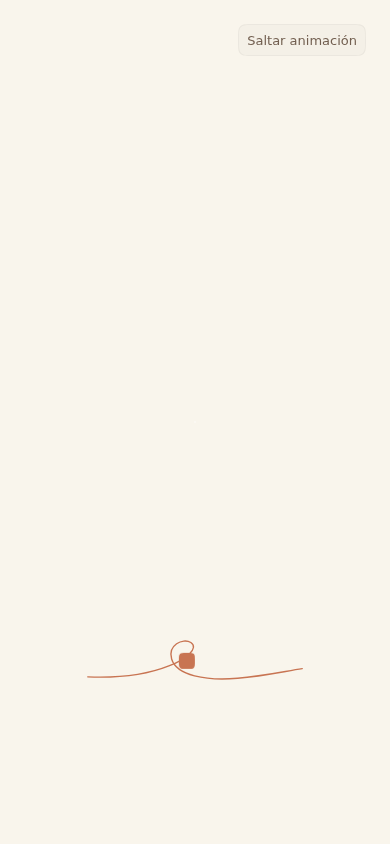
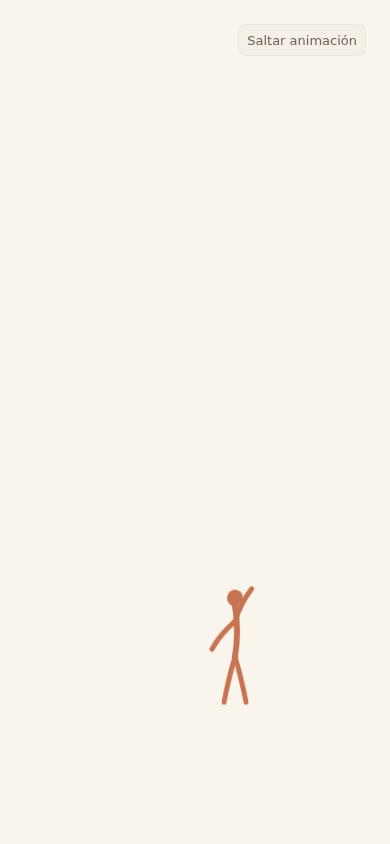
wip(checkpoint): retake CRM-022 screenshots for the figure/transformation choreography (R4 minor)

Changed region(s): [[0.5231, 0.6777, 0.6462, 0.8318], [0.4308, 0.7701, 0.5231, 0.8009]]

diff --git a/docs/aos/evidence/CRM-022/README.md b/docs/aos/evidence/CRM-022/README.md
@@ -3,28 +3,43 @@
 Captured from the `Modules/Onboarding/BettyWelcomeOverlay` Storybook story (`Default`, `DefaultEs`,
 `ReducedMotion`) with Playwright/Chromium (`playwright@1.60.0`, the version pinned in
 `packages/twenty-front/package.json`), against `storybook:serve:dev --configuration=modules` on
-`localhost:6006`. Full-motion frames are at the approximate choreography timestamps described in
-`assets/motion/betty-bienvenida-spec.md`'s scene table (card ~0.9 s, figure ~4.5 s, wordmark +
-greeting ~8.2 s, iris opening ~10.4-10.6 s — slightly earlier on the 390 px viewport, since the
-mask's fixed-radius growth covers a smaller screen sooner on the same clock). Reduced-motion
-frames are at ~0.3 s (card), ~1.0 s (wordmark + greeting), ~2.2 s (dark, pre-reveal).
+`localhost:6006`. The story marks the dashboard behind the layer ready from mount (the happy
+path), so the iris opens on schedule instead of pulsing.
+
+Full-motion frames are at the choreography timestamps from
+`assets/motion/betty-bienvenida-spec.md`'s scene table, timed from when the Skip button first
+renders (not from navigation start, to absorb cold-compile jitter): card ~0.9 s, figure ~5.6 s
+(walking + the wave), transformation ~6.7 s (strands mid-trace, into the wordmark), greeting
+~8.9 s, iris opening ~10.6-10.7 s on the 1440 px viewport and ~10.6 s on the 390 px one — the
+mask's fixed-radius growth covers the smaller screen sooner on the same clock, so its frame is a
+little earlier. Reduced-motion frames are at ~0.3 s (card), ~1.0 s (wordmark + greeting), ~2.2 s
+(dark, pre-reveal).
 
 Real sign-up screenshots from the deployed beta come after the deploy, not in this run.
 
 ## English, 1440 px (`en-desktop-*.png`)
 - `en-desktop-card.png` — scene 1, the "Your space is ready." card with the three setup rows and the postmark.
-- `en-desktop-figure.png` — scenes 2-3 (thread + figure), simplified to a drawn thread and a hopping dot (see report for why).
-- `en-desktop-greeting.png` — scenes 4-5, the betty wordmark, "Welcome, Charles." and the English signed phrase "Relationships worth keeping."
-- `en-desktop-iris.png` — scene 7, the iris opening mid-transition over the charcoal dim.
+- `en-desktop-figure.png` — scene 3, the faceless thread figure (head = the dot, body + limbs = the
+  thread's stroke) mid-walk, waving one arm.
+- `en-desktop-transformation.png` — scene 4, the figure's thread unravelling into four strands that
+  trace and fill the real "b · e · tt · y" glyphs; here "b", "e" and "tt" are already filled in
+  charcoal and "y" is still tracing its outline, with the dot about to land as the final period.
+- `en-desktop-greeting.png` — scenes 4-5 resolved: the approved betty wordmark `<img>`, "Welcome,
+  Charles." and the English signed phrase "Relationships worth keeping."
+- `en-desktop-iris.png` — scene 7, the iris opening mid-transition over the charcoal dim, the
+  terracotta ring visible at its edge.
 
 ## English, 390 px (`en-mobile-*.png`)
-Same four frames at the mobile viewport; the card scales to `min(460px, 90vw)` so it no longer overflows.
+Same five frames at the mobile viewport; the card scales to `min(460px, 90vw)` so it no longer
+overflows.
 
 ## Spanish, 1440 px (`es-desktop-*.png`)
-Same four frames with `i18n` activated to `es-ES`: "Configuración inicial · 3 de 3", "Tu espacio está listo.", "Te damos la bienvenida, Charles.", "Relaciones que dejan huella." (the approved Spanish signature asset), and "Saltar animación" on the skip button.
+Same five frames with `i18n` activated to `es-ES`: "Configuración inicial · 3 de 3", "Tu espacio
+está listo.", "Te damos la bienvenida, Charles.", "Relaciones que dejan huella." (the approved
+Spanish signature asset), and "Saltar animación" on the skip button.
 
 ## Spanish, 390 px (`es-mobile-*.png`)
-Same four frames at the mobile viewport.
+Same five frames at the mobile viewport.
 
 ## Reduced motion (`reduced-motion-*.png`)
 `prefers-reduced-motion: reduce` forced via a mocked `window.matchMedia`, English, at both viewports:
